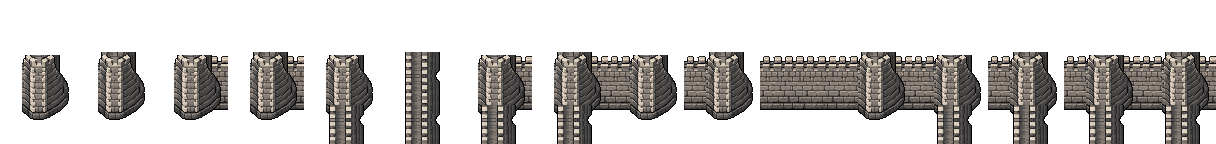
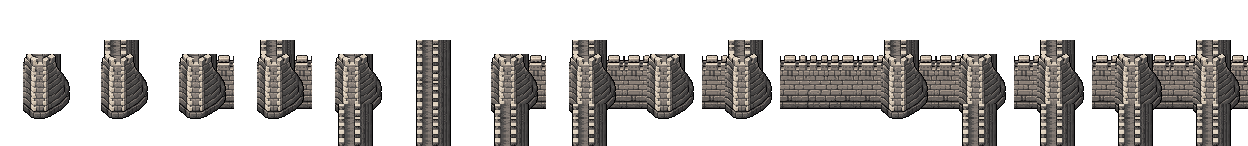
Walls and gates 25% smaller; open gates are see-through; no pop-in walking through
- The fort kit is re-composed at a 58px tile (was 44), so every wall,
  wall tower and gatehouse draws at three quarters of its old size.
- Each gatehouse face has its passage cut out, and the door is a third
  frame (Sprites.gateDoor) drawn back over the gap by R.drawGateDoor
  from one eased number: L1's leaves fold onto their posts, L2's grate
  and L3's portcullis slide up. Fully open draws nothing, so the arch
  shows the ground and anyone in it instead of a black hole.
- R.occludeByForts also lays the gatehouse and its neighbouring sections
  over a unit standing ON the gate tile, so a villager walking through
  stays inside the arch instead of popping in front of the gatehouse.
- tests/wall-tower-bond.mjs: the gate checks now measure the face shut
  (with its door layer) and pin, per tier, that the open passage is
  transparent, that the door layer fills it, and that L1/L2's door is
  timber. This replaces the old dark-arch and timber-gateway samples,
  which read a passage that is now cut out.
- DB_DRAWN / GATE_DRAWN re-measured; ART_V and code version bumped.

Claude-Session: https://claude.ai/code/session_01NT8NhxSDJ2RjRCxMVsqz6T

Changed region(s): [[0.0, 0.25, 1.0, 1.0]]

diff --git a/js/render.js b/js/render.js
@@ -7199,7 +7199,14 @@ const R = {
        redrawn in the building pass's own order, or the curtain north
        of a tower would come back over the tower's head. */
     const list = [];
-    for (let dy = 1; dy <= 4; dy++) for (let dx = dy > 2 ? -2 : -1; dx <= (dy > 2 ? 2 : 1); dx++) {
+    /* WALKING THROUGH A GATE: a unit standing ON the gate's own tile is
+       inside the passage — the gatehouse and the curtain either side of it
+       stand in front of him until he steps out the far side. The passage is
+       cut out of the art, so he shows through the opening and only the posts,
+       the lintel and the towers cover him; without this he popped in front of
+       the whole gatehouse the moment he crossed into its row. */
+    const here = Bld.at(tx, ty), inGate = here && here.key === 'gate' && here.x === tx && here.y === ty;
+    for (let dy = inGate ? 0 : 1; dy <= 4; dy++) for (let dx = dy > 2 ? -2 : -1; dx <= (dy > 2 ? 2 : 1); dx++) {
       const b = Bld.at(tx + dx, ty + dy);
       if (!b || b.x !== tx + dx || b.y !== ty + dy || b.construction > 0 || b.upgrading > 0) continue;
       if (b.key !== 'wall' && b.key !== 'gate' && b.key !== 'tower') continue;
@@ -7218,8 +7225,55 @@ const R = {
       if (b.key === 'tower') this.drawTowerBond(g, b, bx, by, TL);
       this.blitBld(g, spr, bx, by, TL, TL);
       if (b.key === 'tower') this.drawTowerWalk(g, b, bx, by, TL);
-      if (b.key === 'gate') { this.drawDrawbridge(g, b, bx, by, TL, 0, true); this.drawGateWorks(g, b, bx, by, TL, 0, true); }
+      if (b.key === 'gate') { this.drawGateWorks(g, b, bx, by, TL, 0, true); this.drawDrawbridge(g, b, bx, by, TL, 0, true); }
     }
+  },
+  /* THE DRAWN GATEHOUSE'S DOOR (Assets.FORT_DOOR, operator: "make the doors
+     transparent instead of black when they're open… just open or closed with
+     an animation, keep it simple"). The passage is CUT OUT of the gatehouse
+     art, so an open gate shows the ground through it; the door is its own
+     frame, laid back over the hole — the two leaves swinging back onto their
+     posts at L1, the portcullis or the dark arch sliding up into the works at
+     L2 and L3. One eased number (R._dbA, 1 = shut) is the whole animation.
+     The rival never works a lever, so its doors are always drawn shut.
+     Answers true when it drew (or deliberately drew nothing), so the
+     procedural overlays below stand down. */
+  drawGateDoor(g, b, bx, by, bw, dt, front) {
+    if (this.gateVerticalAt(b.x, b.y)) return false;
+    const li = Math.min(b.level || 1, 3) - 1;
+    const face = (Sprites.gateMask[li] || [])[0];
+    const door = Sprites.gateDoor && Sprites.gateDoor[li];
+    if (!door || !face || !face._cfArt || !face._cfArt.fort) return false;
+    if (!front || b.construction > 0) return true;
+    const live = Bld.canGateToggle(b) && b.owner === 'P';
+    let a = 1;
+    if (live) {
+      const tgt = b.raised ? 1 : 0;
+      a = this._dbA[b.id];
+      if (a == null) a = tgt;
+      else if (b.level < 3 && a !== tgt) {   // the drawbridge eases its own pass at L3
+        const step = Math.max(0, Math.min(0.2, dt || 0)) * this.DB_SPEED;
+        a = tgt > a ? Math.min(tgt, a + step) : Math.max(tgt, a - step);
+      }
+      if (b.level < 3) this._dbA[b.id] = a;
+    }
+    if (a <= 0.001) return true;                       // wide open: nothing in the way
+    const D = Assets.FORT_DOOR[li], r = this.artRect(face, bx, by, bw, bw), k = r.w / face.width;
+    const dx0 = r.x + D.x0 * k, dy0 = r.y + D.y0 * k, W = (D.x1 - D.x0) * k, H = (D.y1 - D.y0) * k;
+    g.save();
+    g.imageSmoothingEnabled = true; g.imageSmoothingQuality = 'high';
+    if (b.level === 1) {
+      // two leaves, each folding back onto its own post
+      const s = 0.12 + 0.88 * a, half = (D.x1 - D.x0) / 2;
+      g.drawImage(door, D.x0, D.y0, half, D.y1 - D.y0, dx0, dy0, half * k * s, H);
+      g.drawImage(door, D.x0 + half, D.y0, half, D.y1 - D.y0, dx0 + W - half * k * s, dy0, half * k * s, H);
+    } else {
+      // the grate (or the shadowed arch) rises into the works above
+      g.beginPath(); g.rect(dx0, dy0, W, H); g.clip();
+      g.drawImage(door, D.x0, D.y0, D.x1 - D.x0, D.y1 - D.y0, dx0, dy0 - (1 - a) * H, W, H);
+    }
+    g.restore();
+    return true;
   },
   /* WHERE EACH TIER'S DOOR IS, in the gate tile's 32-cell fine grid: the
      face's passage (x0..x1 across, y0 lintel/arch head to y1 threshold) and
@@ -7232,8 +7286,8 @@ const R = {
     { face: { x0: 11, x1: 21, y0: 13, y1: 30 }, flank: { w: 5.5, e: 24.5, ow: 5.5, oe: 24.5, y0: 17, y1: 26, top: 4 } },
   ],
   GATE_DRAWN: [
-    { face: { x0: 1.5, x1: 31, y0: -18, y1: 23.5 }, flank: { w: -2.5, e: 36.5, ow: -0.5, oe: 36.5, y0: 11, y1: 24.5, top: -24 } },
-    { face: { x0: 6.5, x1: 26.5, y0: -13, y1: 24.5 }, flank: { w: -1.5, e: 35.5, ow: -1.5, oe: 35.5, y0: 11, y1: 24.5, top: -23 } },
+    { flank: { w: -0.5, e: 33, ow: 1.5, oe: 32.5, y0: 13, y1: 24.5, top: -12 } },
+    { flank: { w: 2.5, e: 31.5, ow: 2.5, oe: 31.5, y0: 13, y1: 24.5, top: -11.5 } },
   ],
   gateWorksGeo(b, vert) {
     const li = Math.min(b.level, 2) - 1;
@@ -7242,6 +7296,7 @@ const R = {
     return vert ? T.flank : T.face;
   },
   drawGateWorks(g, b, bx, by, bw, dt, front) {
+    if (this.drawGateDoor(g, b, bx, by, bw, dt, front)) return;
     // PLAYER gates only: the rival never works a lever, and its always-open
     // state drawn literally would show the player a passage they cannot use —
     // the rival's gate keeps the baked closed-door art it has always worn
@@ -12706,7 +12761,7 @@ const R = {
         if (b.key === 'tower') this.drawTowerWalk(g, b, bx, by, bw);
         // …and one that falls toward us swings over its own archway — the
         // early tiers' doors and portcullis ride the same two passes
-        if (b.key === 'gate') { this.drawDrawbridge(g, b, bx, by, bw, dt, true); this.drawGateWorks(g, b, bx, by, bw, dt, true); }
+        if (b.key === 'gate') { this.drawGateWorks(g, b, bx, by, bw, dt, true); this.drawDrawbridge(g, b, bx, by, bw, dt, true); }
         /* Owner tag. On a FORTIFICATION the tile's top-left corner is bare
            ground — the curtain runs down the middle of the tile — so the pip
            floated out on the grass beside the wall like a UI glitch, one per

diff --git a/index.html b/index.html
@@ -1262,10 +1262,10 @@
        art's own tone, so no frame is black; the title's .tbg carries the
        same sources, so the lift has no scene change in it. -->
   <picture style="display:contents">
-    <source srcset="assets/ui/title-bg-wide.webp?v=53" type="image/webp" media="(min-width: 900px) and (min-aspect-ratio: 4/3)">
-    <source srcset="assets/ui/title-bg-wide.jpg?v=53" type="image/jpeg" media="(min-width: 900px) and (min-aspect-ratio: 4/3)">
-    <source srcset="assets/ui/title-bg.webp?v=53" type="image/webp">
-    <img src="assets/ui/title-bg.jpg?v=53" alt="" decoding="sync" fetchpriority="high"
+    <source srcset="assets/ui/title-bg-wide.webp?v=54" type="image/webp" media="(min-width: 900px) and (min-aspect-ratio: 4/3)">
+    <source srcset="assets/ui/title-bg-wide.jpg?v=54" type="image/jpeg" media="(min-width: 900px) and (min-aspect-ratio: 4/3)">
+    <source srcset="assets/ui/title-bg.webp?v=54" type="image/webp">
+    <img src="assets/ui/title-bg.jpg?v=54" alt="" decoding="sync" fetchpriority="high"
          style="width:100%;height:100%;object-fit:cover;image-rendering:pixelated;pointer-events:none;-webkit-user-select:none;user-select:none">
   </picture>
 </div>
@@ -1421,10 +1421,10 @@
     <!-- painted backdrop: webp served, jpg fallback; the .screen gradient
          over the live demo world remains behind it as the no-image fallback -->
     <picture class="tbg">
-      <source srcset="assets/ui/title-bg-wide.webp?v=53" type="image/webp" media="(min-width: 900px) and (min-aspect-ratio: 4/3)">
-      <source srcset="assets/ui/title-bg-wide.jpg?v=53" type="image/jpeg" media="(min-width: 900px) and (min-aspect-ratio: 4/3)">
-      <source srcset="assets/ui/title-bg.webp?v=53" type="image/webp">
-      <img src="assets/ui/title-bg.jpg?v=53" alt="" decoding="async">
+      <source srcset="assets/ui/title-bg-wide.webp?v=54" type="image/webp" media="(min-width: 900px) and (min-aspect-ratio: 4/3)">
+      <source srcset="assets/ui/title-bg-wide.jpg?v=54" type="image/jpeg" media="(min-width: 900px) and (min-aspect-ratio: 4/3)">
+      <source srcset="assets/ui/title-bg.webp?v=54" type="image/webp">
+      <img src="assets/ui/title-bg.jpg?v=54" alt="" decoding="async">
     </picture>
     <div class="tcol">
       <div class="thead">
@@ -1797,31 +1797,31 @@
 
 </div>
 
-<script src="js/config.js?v=87"></script>
-<script src="js/audio.js?v=87"></script>
-<script src="js/config.supabase.js?v=87"></script>
-<script src="js/vendor/supabase.js?v=87"></script>
-<script src="js/backend.js?v=87"></script>
-<script src="js/competition.js?v=87"></script>
-<script src="js/score.js?v=87"></script>
-<script src="js/cards.js?v=87"></script>
-<script src="js/artstyle.js?v=87"></script>
-<script src="js/sprites.js?v=87"></script>
-<script src="js/formations.js?v=87"></script>
-<script src="js/relics.js?v=87"></script>
-<script src="js/assets.js?v=87"></script>
-<script src="js/dev.js?v=87"></script>
-<script src="js/map.js?v=87"></script>
-<script src="js/buildings.js?v=87"></script>
-<script src="js/units.js?v=87"></script>
-<script src="js/combat.js?v=87"></script>
-<script src="js/ai.js?v=87"></script>
-<script src="js/render.js?v=87"></script>
-<script src="js/defeatart.js?v=87"></script>
-<script src="js/victoryart.js?v=87"></script>
-<script src="js/ui.js?v=87"></script>
-<script src="js/screens.js?v=87"></script>
-<script src="js/tutorial.js?v=87"></script>
-<script src="js/game.js?v=87"></script>
+<script src="js/config.js?v=88"></script>
+<script src="js/audio.js?v=88"></script>
+<script src="js/config.supabase.js?v=88"></script>
+<script src="js/vendor/supabase.js?v=88"></script>
+<script src="js/backend.js?v=88"></script>
+<script src="js/competition.js?v=88"></script>
+<script src="js/score.js?v=88"></script>
+<script src="js/cards.js?v=88"></script>
+<script src="js/artstyle.js?v=88"></script>
+<script src="js/sprites.js?v=88"></script>
+<script src="js/formations.js?v=88"></script>
+<script src="js/relics.js?v=88"></script>
+<script src="js/assets.js?v=88"></script>
+<script src="js/dev.js?v=88"></script>
+<script src="js/map.js?v=88"></script>
+<script src="js/buildings.js?v=88"></script>
+<script src="js/units.js?v=88"></script>
+<script src="js/combat.js?v=88"></script>
+<script src="js/ai.js?v=88"></script>
+<script src="js/render.js?v=88"></script>
+<script src="js/defeatart.js?v=88"></script>
+<script src="js/victoryart.js?v=88"></script>
+<script src="js/ui.js?v=88"></script>
+<script src="js/screens.js?v=88"></script>
+<script src="js/tutorial.js?v=88"></script>
+<script src="js/game.js?v=88"></script>
 </body>
 </html>

diff --git a/js/assets.js b/js/assets.js
@@ -1815,12 +1815,13 @@ const Assets = {
                                      connection mask (N=1 E=2 S=4 W=8)
        assets/fort/tower-l{lv}.png   the WALL TOWER: the body a tower wears
                                      when it is bonded into a line
-       assets/fort/gate-l{lv}.png    the gatehouse: [east-west face,
-                                     north-south flank]
+       assets/fort/gate-l{lv}.png    the gatehouse: [east-west face with
+                                     its passage cut out, north-south
+                                     flank, the door that fills the cut]
 
      Every frame is the SAME canvas (FORT_GEO): the tile's own ground is the
      box [M, M+T) x [UP, UP+T), so the art may rise UP above its tile — a
-     wall tower stands nearly two tiles tall — and reach M to either side,
+     wall tower stands about a tile and a half tall — and reach M to either side,
      where a gatehouse's towers stand astride the curtain next door. Wall
      textures are anchored to WORLD coordinates when the atlas is composed
      (scratch fort/compose2.cjs), so neighbouring sections meet seamlessly
@@ -1839,10 +1840,15 @@ const Assets = {
   FORT_DIR: 'assets/fort/',
   FORT_PIECES: ['wall', 'tower', 'gate'],
   FORT_TIERS: [1, 2, 3],
-  FORT_GEO: { T: 44, M: 16, UP: 76, DOWN: 24 },
+  FORT_GEO: { T: 58, M: 10, UP: 64, DOWN: 24 },
   // the curtain leaving a tower southward: the N-S strip's columns and the
   // row it comes out at, in FORT_GEO canvas px, per tier
-  FORT_WALK: [{ x0: 22, x1: 62, y: 108 }, { x0: 21, x1: 55, y: 106 }, { x0: 22, x1: 64, y: 108 }],
+  FORT_WALK: [{ x0: 23, x1: 63, y: 107 }, { x0: 22, x1: 56, y: 105 }, { x0: 23, x1: 65, y: 107 }],
+  /* THE DOOR, in the same canvas px: the passage is CUT OUT of the gatehouse
+     (gate frame 0), so an open gate shows the ground through it, and the
+     closed door / portcullis / dark arch is frame 2, drawn back over the
+     hole by R.drawGateWorks — swung (L1) or slid up (L2, L3) as it opens. */
+  FORT_DOOR: [{ x0: 20, x1: 60, y0: 47, y1: 109 }, { x0: 27, x1: 53, y0: 58, y1: 110 }, { x0: 28, x1: 52, y0: 60, y1: 110 }],
   fort: {},
   fortName(lv, piece) { return (piece + '-l' + lv + '.png').toLowerCase(); },
   fortUrl(lv, piece) { return this.FORT_DIR + this.fortName(lv, piece) + '?v=' + (CFG.ART_V || 1); },
@@ -1884,6 +1890,7 @@ const Assets = {
     if (f.gate && Sprites.gateMask && Sprites.gateMask[li]) {
       Sprites.gateMask[li][0] = this._fortFrame(f.gate, 0);
       Sprites.gateMask[li][1] = this._fortFrame(f.gate, 1);
+      (Sprites.gateDoor || (Sprites.gateDoor = []))[li] = this._fortFrame(f.gate, 2);
       if (Sprites.building && Sprites.building.gate) Sprites.building.gate[li] = Sprites.gateMask[li][0];
       if (Sprites.buildingA && Sprites.buildingA.gate) Sprites.buildingA.gate[li] = Sprites.gateMask[li][0];
       // the third tier's drawbridge is re-cut to the drawn gatehouse's arch

diff --git a/js/sprites.js b/js/sprites.js
@@ -3883,11 +3883,12 @@ const Sprites = {
   Sprites.drawbridge = buildDrawbridge();
   Sprites.drawbridgeGeo = DB;
   /* THE DRAWN GATEHOUSE'S DECK (assets/fort/gate-l3.png): its arch spans
-     fine cells 6.5..26.2 with the threshold on the drawn wall's foot (24.7),
-     the chains run up to the two towers, and the flank's block stands from
-     cell 5 to its east side face at 35 — measured off the art, so a redrawn
-     gatehouse means re-measuring these. */
-  Sprites.DB_DRAWN = { CX: 16.3, HALF: 9.8, GND: 25, WX: [4, 28.5], WY: -9, HX: 35, SGND: 25, SWX: 30, SWY: -17, MX: 20, pad: 20 };
+     fine cells 9.9..23.2 with the threshold on the drawn wall's foot (24.8),
+     the chains run up beside the arch head, and the flank's block stands from
+     cell 4.4 to its east side face at 30.9 — measured off the art (scratch
+     fort/doorcut.cjs prints them), so a redrawn gatehouse means re-measuring
+     these. */
+  Sprites.DB_DRAWN = { CX: 16.5, HALF: 6.4, GND: 25, WX: [9, 24], WY: -4, HX: 31, SGND: 27, SWX: 27, SWY: -6, MX: 17.7, pad: 12 };
   Sprites.fitDrawbridge = () => {
     DB = Sprites.DB_DRAWN;
     Sprites.drawbridge = buildDrawbridge();

diff --git a/js/config.js b/js/config.js
@@ -16,7 +16,7 @@ const T = {
 
 const CFG = {
   SAVE_VERSION: 2,     // bump when the save shape changes; loadJSON migrates older saves
-  ART_V: 53,           // cache-buster on every art URL (?v=N) — bump when a PNG in
+  ART_V: 54,           // cache-buster on every art URL (?v=N) — bump when a PNG in
                        // v40: the desktop glen is the supplied painting
                        // (assets/ui/title-bg-wide.png, re-encoded to webp/jpg).
                        // THE GLEN URLS IN index.html CARRY THIS NUMBER BY HAND

diff --git a/CLAUDE.md b/CLAUDE.md
@@ -1667,12 +1667,14 @@ grass, wood, and stone progression", and a wall tower must "feel like an
 especially strong part of the wall", never the free-standing tower plopped
 on the junction): `wall-l{lv}.png` (sixteen frames, one per connection
 mask), `tower-l{lv}.png` (the WALL TOWER's body) and `gate-l{lv}.png`
-([east-west face, north-south flank]) — a turf rampart under a wattle
+([east-west face, north-south flank, door]) — a turf rampart under a wattle
 fence, an oak palisade, a stone curtain, each tower a taller, thicker piece
 of that same wall (a wattle-and-post box on a stepped rampart, a log
 blockhouse crowned with stakes, a crenellated ashlar tower), each gatehouse
-built in it. Every frame is ONE canvas, `Assets.FORT_GEO` (44px tile, 16px
-reach either side, 76px of height above the tile), drawn through `blitBld`'s
+built in it. Every frame is ONE canvas, `Assets.FORT_GEO` (58px tile — the
+operator's "walls and gates are too large, shrink by 25%": a tile's worth of
+art is drawn into 3/4 of the tile it used to fill — 10px reach either side,
+64px of height above it), drawn through `blitBld`'s
 `_cfArt` anchor like every other PNG — so the curtain overhangs its tile
 and a gatehouse's towers stand astride the sections next door. **Three
 rules came with the height.** (1) THE CURTAIN DRAWS FIRST IN ITS ROW (the
@@ -1687,17 +1689,30 @@ OF WHOEVER IS BEHIND IT (`R.occludeByForts`): buildings all draw before the
 units, so a villager walking inside a north wall used to be painted on its
 battlements; after each unit, the drawn forts in the two rows south of it
 (and any tower that stands over those) are laid over it again, in the
-building pass's own order. A picture only — `R.unitHit` is untouched. The
-drawn gatehouses' doors are taller and wider than the procedural ones, so
-the door/portcullis overlays read their geometry from `R.GATE_DRAWN` (the
-procedural numbers are `R.GATE_PROC`) and the level-3 deck is re-cut to the
+building pass's own order — and a unit standing ON a gate's own tile is
+inside the passage, so the gatehouse and the curtain either side are laid
+over him too until he steps out the far side (he used to pop in front of
+the whole gatehouse the moment he entered its row: the walk-through
+glitch). A picture only — `R.unitHit` is untouched. **AN OPEN GATE IS
+SEE-THROUGH** (operator: "make the doors transparent instead of black when
+they're open… just open or closed with an animation, keep it simple"): the
+passage (`Assets.FORT_DOOR`, per tier) is CUT OUT of the face frame and the
+door is the third frame, `Sprites.gateDoor`, laid back over the gap by
+`R.drawGateDoor` from ONE eased number (`R._dbA`, 1 = shut) — L1's two
+leaves fold back onto their posts, L2's door and L3's portcullis slide up
+into the works, clipped to the passage. Open draws nothing at all, so the
+ground and anyone walking through show in the arch; the rival's doors are
+always drawn shut. It is drawn BEFORE the drawbridge so the deck's chains
+stay in front. The flank's portcullis rod still reads its geometry from
+`R.GATE_DRAWN` (the procedural numbers are `R.GATE_PROC`) and the level-3 deck is re-cut to the
 drawn arch by `Sprites.fitDrawbridge` (`Sprites.DB_DRAWN`, with `pad` rows
 above the tile for the high winches) — **redraw a gatehouse and you must
 re-measure both**. Every piece 404s quietly to the procedural atlas, mural
 tower and gatehouse, which stay as the fallback. The contract reads the
 drawn kit: L2 is oak (no turf), L1 is told from it by its living turf,
-the gatehouse stands on the curtain's own foot line, and the curtain south
-of a flank's block IS the wall's frame, pixel for pixel. **The bond** — a tower raised IN a wall line joins it (corners,
+the gatehouse stands on the curtain's own foot line, the curtain south
+of a flank's block IS the wall's frame, pixel for pixel, and on every tier
+the face's passage is transparent while the door layer fills it. **The bond** — a tower raised IN a wall line joins it (corners,
 T-junctions, mid-run), so the curtain reads unbroken like a real castle's
 mural towers; a tower merely BEHIND or IN FRONT of a line must not.
 `R.towerLinkMask` decides: link toward a neighbouring wall/gate when the run

diff --git a/ART_PLAN.md b/ART_PLAN.md
@@ -410,8 +410,11 @@ its middle rows cut out (a squat block) over the N-S run. The tier-2 corner
 post was cut out of its corner programmatically — the edit had left the
 tier-1 turf bastion's skirt under it, which read as a ramp. All of it lands
 by filename in `assets/fort/` (see CLAUDE.md, THE WALL KIT IS DRAWN NOW).
+The kit was re-composed at a 58px tile (was 44) to draw it 25% smaller, and
+`doorcut.cjs` cuts each gatehouse face's passage out into a third frame — the
+door — so an open gate is transparent; re-cut both if a face is redrawn.
 
-**THE DENSITY CEILING IS THE SLOT, AND FOR A GATE IT WAS 2×.** (History: the drawn wall kit replaced the 64px gate slot with `Assets.FORT_GEO`'s 44px-a-tile canvas, which the anchoring rule resamples like any building PNG.) A building PNG
+**THE DENSITY CEILING IS THE SLOT, AND FOR A GATE IT WAS 2×.** (History: the drawn wall kit replaced the 64px gate slot with `Assets.FORT_GEO`'s 58px-a-tile canvas (44px at first), which the anchoring rule resamples like any building PNG.) A building PNG
 goes through `R.artRect` and is resampled at every zoom, so a 4× master there
 is correct and encouraged. A gate does not: it lands in `Sprites.gateMask` as
 a **64px canvas drawn into a 32px tile**, which is `tileB`'s own "DOUBLE the
